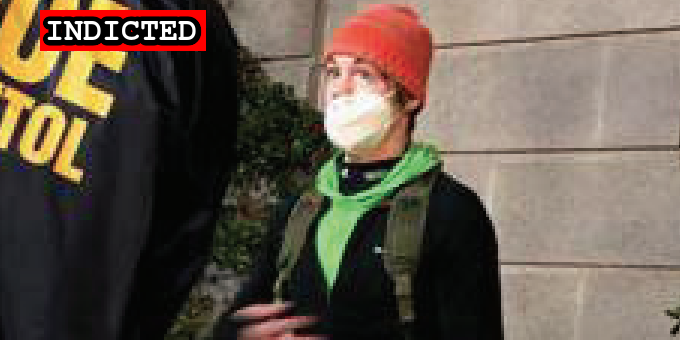
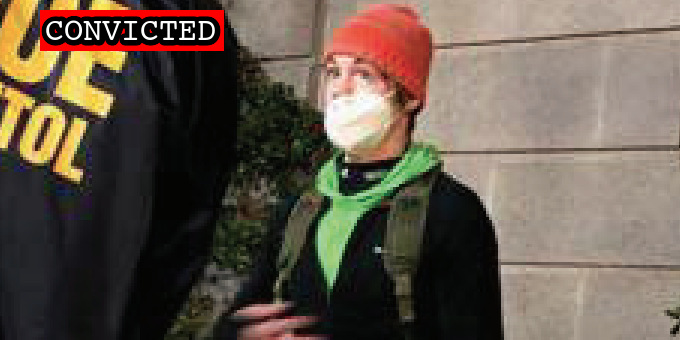
Latest import

Changed region(s): [[0.0618, 0.0294, 0.3397, 0.1471]]

diff --git a/docs/_suspects/robert-lyon.md b/docs/_suspects/robert-lyon.md
@@ -4,15 +4,15 @@ lastName: Lyon
 hashtag: RobertLyon
 aka:
 residence: Ohio
-status: Indicted
+status: Convicted
 date: 2021-01-25
 charged: 2021-01-25
 indicted: 2021-02-26
-convicted: 
-sentenced: 
-dismissed: 
+convicted: 2022-03-14
+sentenced:
+dismissed:
 deceased:
-plea_hearing:
+plea_hearing: 2022-03-14
 sentencing:
 age: 27
 occupation:
@@ -34,9 +34,15 @@ published: true
 caseNumber: 1:21-cr-161
 videos:
 charges:
+  - code: 18 USC § 5104(e)(2)(D)
+    title: Disorderly Conduct in a Capitol Building
+    url: https://www.law.cornell.edu/uscode/text/40/5104
+    felony: false
 sentence:
 ---
+
 - [News Report](https://www.wfmj.com/story/43232086/feds-accuse-3-ohio-men-of-illegally-entering-us-capitol)
 - [Complaint](https://www.justice.gov/opa/page/file/1361301/download)
-- [Statement of Facts](https://www.justice.gov/opa/page/file/1361301/download)
+- [Statement of Facts](https://www.justice.gov/usao-dc/case-multi-defendant/file/1483236/download)
 - [Indictment](https://www.justice.gov/usao-dc/case-multi-defendant/file/1371361/download)
+- [Plea Agreement](https://www.justice.gov/usao-dc/case-multi-defendant/file/1483231/download)

diff --git a/docs/_suspects/enrique-tarrio.md b/docs/_suspects/enrique-tarrio.md
@@ -36,6 +36,6 @@ videos:
 charges:
 sentence:
 ---
-
 - [Indictment](https://www.justice.gov/usao-dc/case-multi-defendant/file/1480986/download)
 - [Detention Memo](https://s3.documentcloud.org/documents/21417131/3-14-22-us-detention-memo-enrique-tarrio.pdf)
+- [Sentencing Memo](https://extremism.gwu.edu/sites/g/files/zaxdzs2191/f/Enrique%20Tarrio%20Government%20Detention%20Memorandum.pdf)
